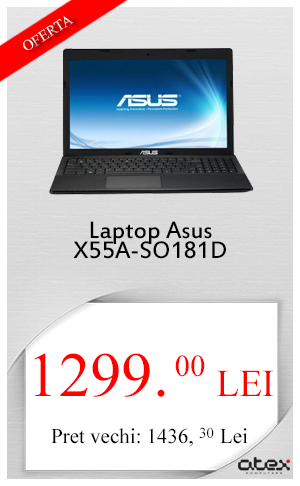
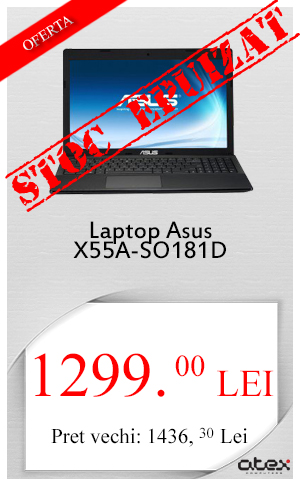
more black friday products

Changed region(s): [[0.0, 0.0, 1.0, 0.4321]]

diff --git a/atexpc/atex_web/templates/blackfriday.html b/atexpc/atex_web/templates/blackfriday.html
@@ -47,7 +47,7 @@ body,td,th {
 <tr>
   <td width="auto" align="center"><p><a href="http://www.atexpc.ro/produs/52673-laptop-acer-nxm12ex212"><img src="/static/images/produse black friday/Laptop Acer NX.M12EX.jpg" width="300" height="486" alt="Laptop Acer NX.M12EX.212" /></a></p>
     <p>&nbsp;</p></td>
-  <td width="auto" align="center"><p><a href="http://www.atexpc.ro/produs/58352-laptop-asus-x55a-so181d"><img src="/static/images/produse black friday/Laptop Asus X55A-SO181D.jpg" width="300" height="486" alt="Laptop Asus X55A-SO181D" /></a></p>
+  <td width="auto" align="center"><p><img src="/static/images/produse black friday/Laptop Asus X55A-SO181D.jpg" width="300" height="486" alt="Laptop Asus X55A-SO181D" /></a></p>
     <p>&nbsp;</p></td>
   <td width="auto" align="center"><p><a href="http://www.atexpc.ro/produs/58449-laptop-dell-dl-272275600"><img src="/static/images/produse black friday/Laptop Dell DL-272275600.jpg" width="300" height="486" alt="Laptop Dell DL-272275600" /></a></p>
     <p>&nbsp;</p></td>
@@ -99,7 +99,7 @@ body,td,th {
 
 </tr>
 <tr>
-  <td width="auto" align="center"><p><a href="http://www.atexpc.ro/produs/58463-routere-si-acces-point-dlink-dir-850l"><img src="/static/images/produse black friday/Router DLink DIR-850L.jpg" alt="Router DLink DIR-850L" width="300" height="486" /></a></p>
+  <td width="auto" align="center"><p><img src="/static/images/produse black friday/Router DLink DIR-850L.jpg" alt="Router DLink DIR-850L" width="300" height="486" /></a></p>
     <p>&nbsp;</p></td>
   <td width="auto" align="center"><p><a href="http://www.atexpc.ro/produs/54210-routere-si-acces-point-dlink-dir-636l"><img src="/static/images/produse black friday/Router DLink DIR-636L.jpg" alt="Router DLink DIR-636L" width="300" height="486" /></a></p>
     <p>&nbsp;</p></td>
@@ -162,7 +162,7 @@ body,td,th {
 
 </tr>
 <tr>
-  <td width="auto" align="center"><p><a href="http://www.atexpc.ro/produs/54361-monitor-dell-u2312hm"><img src="/static/images/produse black friday/Monitor Dell U2312HM.jpg" width="300" height="486" alt="Monitor Dell U2312HM" /></a></p>
+  <td width="auto" align="center"><p><img src="/static/images/produse black friday/Monitor Dell U2312HM.jpg" width="300" height="486" alt="Monitor Dell U2312HM" /></a></p>
     <p>&nbsp;</p></td>
   <td width="auto" align="center"><p><a href="http://www.atexpc.ro/produs/43323-kit-tastatura-mouse-logitech-920-003168"><img src="/static/images/produse black friday/Kit Tastatura + Mouse Logitech 920-003168.jpg" width="300" height="486" alt="Kit Tastatura + Mouse Logitech 920-003168" /></a></p>
     <p>&nbsp;</p></td>
@@ -188,3 +188,18 @@ body,td,th {
 </tr>
 </table>
 <p><img src="/static/images/produse black friday/comenzi.png" width="auto" height="auto"/>&nbsp;</p>
+<div class="statistics-info">
+                            
+                            <!--/Start Trafic.ro/-->
+
+                            <script type="text/javascript">t_rid="atexpcro";</script>
+
+                            <script type="text/javascript" src="http://storage.trafic.ro/js/trafic.js">
+                            </script>
+
+                            <noscript>
+                                <a href="http://www.trafic.ro/top/?rid=atexpcro" target="_blank">
+                                    <img border="0" alt="trafic ranking" src="http://log.trafic.ro/cgi-bin/pl.dll?rid=atexpcro" /></a>
+                                <a href="http://www.trafic.ro">Statistici web</a>
+                            </noscript>
+                            <!--/End Trafic.ro/-->
